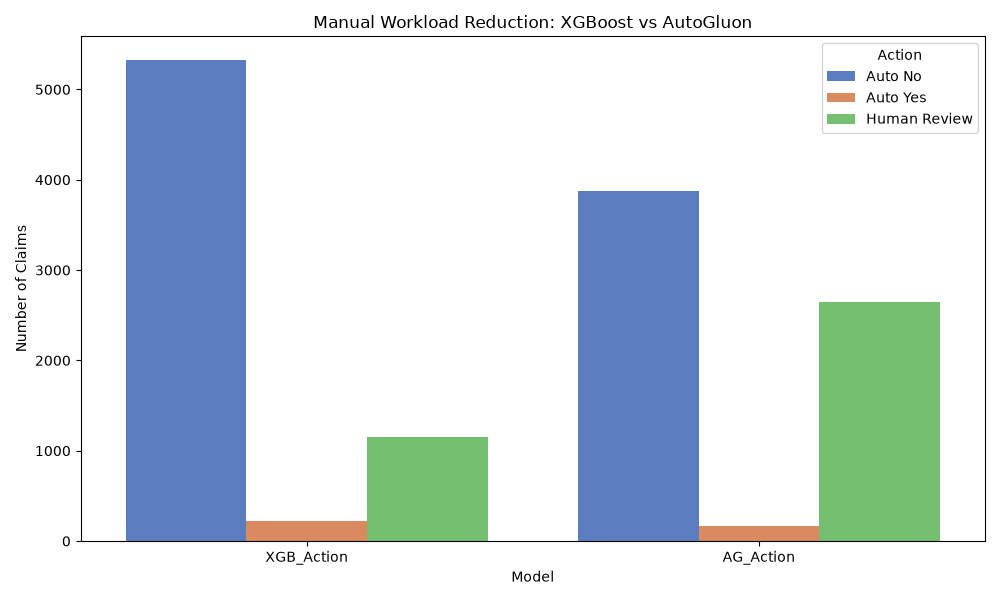
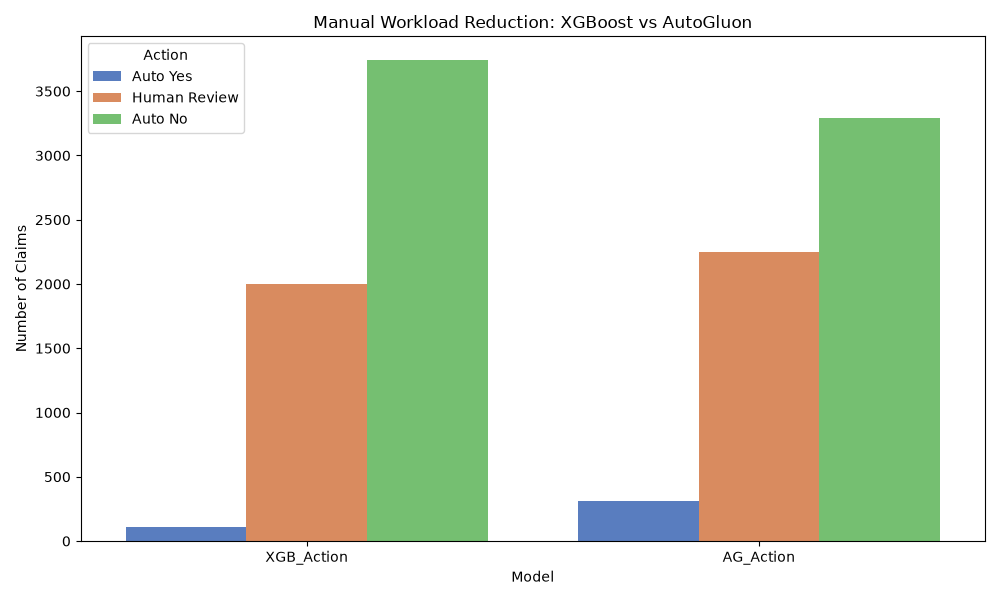
add WESS ID data and improve visualization

diff --git a/trey_pipeline/ml_pipeline/visualize.py b/trey_pipeline/ml_pipeline/visualize.py
@@ -1,58 +1,194 @@
 # /// script
 # requires-python = ">=3.11,<3.12"
-# dependencies = ["pandas", "matplotlib", "seaborn", "scikit-learn"]
+# dependencies = ["pandas", "matplotlib", "seaborn", "scikit-learn", "numpy"]
 # ///
 
+#visualize.py
 from pathlib import Path
 import pandas as pd
 import seaborn as sns
 import matplotlib.pyplot as plt
-from sklearn.metrics import accuracy_score, confusion_matrix
+import numpy as np
+from sklearn.metrics import accuracy_score
 
 PROJECT_ROOT = Path(__file__).resolve().parents[1]
 
-def evaluate_and_visualize(
-    data_path=PROJECT_ROOT / "data" / "output_claims.csv",
+# ==========================================
+# 1. MODEL EVALUATION (XGBOOST VS AUTOGLUON)
+# ==========================================
+def evaluate_models(
+    preds_path=PROJECT_ROOT / "data" / "output_claims.csv",
+    truth_path=PROJECT_ROOT / "data" / "unprocessed_claims_Matt_MCN_MARCH1Rev.csv",
     output_path=PROJECT_ROOT / "data" / "workload_reduction.png",
 ):
-    df = pd.read_csv(data_path)
-    valid_cases = df[df['Actual_Verdict'].isin(['Y', 'N'])].copy()
+    print("\n" + "="*65)
+    print("           MODEL PERFORMANCE & WORKLOAD REDUCTION")
+    print("="*65)
     
-    if valid_cases.empty:
-        print("No historical ground truth ('Y' or 'N') found in the file. Skipping visualization.")
+    try:
+        preds_df = pd.read_csv(preds_path)
+        truth_df = pd.read_csv(truth_path)
+    except FileNotFoundError as e:
+        print(f"File not found: {e}. Skipping model evaluation.")
+        return
+
+    # Merge predictions with ground truth on 'video_id'
+    if 'video_id' not in preds_df.columns or 'video_id' not in truth_df.columns:
+        print("Error: 'video_id' column must be present in both files to merge them.")
         return
         
-    valid_cases['Actual_Binary'] = valid_cases['Actual_Verdict'].map({'Y': 1, 'N': 0})
+    df = pd.merge(preds_df, truth_df, on='video_id', how='inner')
+    
+    # Filter to valid ground truth
+    valid_cases = df[df['verdict'].isin(['Y', 'N'])].copy()
+    
+    if valid_cases.empty:
+        print("No valid historical ground truth ('Y' or 'N') found after merging.")
+        return
+        
+    valid_cases['Actual_Binary'] = valid_cases['verdict'].map({'Y': 1, 'N': 0})
     
     def calc_metrics(action_col):
+        if action_col not in valid_cases.columns:
+            return 0, 0, 0
+            
         auto = valid_cases[valid_cases[action_col] != 'Human Review'].copy()
         if auto.empty: return 0, 0, 0
-        auto['Pred'] = auto[action_col].map({'Auto Yes': 1, 'Auto No': 0})
         
+        auto['Pred'] = auto[action_col].map({'Auto Yes': 1, 'Auto No': 0})
         rate = len(auto) / len(valid_cases) * 100
         acc = accuracy_score(auto['Actual_Binary'], auto['Pred']) * 100
         fns = ((valid_cases['Actual_Binary'] == 1) & (valid_cases[action_col] == 'Auto No')).sum()
         return rate, acc, fns
 
+    # Calculate for both models
     xgb_rate, xgb_acc, xgb_fns = calc_metrics('XGB_Action')
     ag_rate, ag_acc, ag_fns = calc_metrics('AG_Action')
     
-    print("\n" + "="*60)
-    print(" HEAD-TO-HEAD PERFORMANCE REPORT")
-    print("="*60)
+    # Generate Text Report
     print(f"XGBoost   | Automation: {xgb_rate:.2f}% | Accuracy: {xgb_acc:.2f}% | False Negatives: {xgb_fns}")
     print(f"AutoGluon | Automation: {ag_rate:.2f}% | Accuracy: {ag_acc:.2f}% | False Negatives: {ag_fns}")
-    print("="*60)
+    print("="*65)
 
-    # Workload Reduction Chart
-    plt.figure(figsize=(10, 6))
-    actions_df = pd.melt(valid_cases[['XGB_Action', 'AG_Action']], var_name='Model', value_name='Action')
-    sns.countplot(data=actions_df, x='Model', hue='Action', palette='muted')
-    plt.title('Manual Workload Reduction: XGBoost vs AutoGluon')
-    plt.ylabel('Number of Claims')
-    plt.tight_layout()
-    plt.savefig(output_path)
-    print(f"Saved visualization to '{output_path}'")
+    # Generate Workload Reduction Chart
+    if 'XGB_Action' in valid_cases.columns and 'AG_Action' in valid_cases.columns:
+        plt.figure(figsize=(10, 6))
+        actions_df = pd.melt(valid_cases[['XGB_Action', 'AG_Action']], var_name='Model', value_name='Action')
+        
+        sns.countplot(
+            data=actions_df, 
+            x='Model', 
+            hue='Action', 
+            palette='muted', 
+            order=['XGB_Action', 'AG_Action'],
+            hue_order=['Auto Yes', 'Human Review', 'Auto No']
+        )
+        
+        plt.title('Manual Workload Reduction: XGBoost vs AutoGluon')
+        plt.ylabel('Number of Claims')
+        plt.tight_layout()
+        
+        output_path.parent.mkdir(parents=True, exist_ok=True)
+        plt.savefig(output_path)
+        print(f"[#] Saved workload visualization to '{output_path}'")
+    else:
+        print("Missing 'XGB_Action' or 'AG_Action' columns. Cannot generate plot.")
+
+
+# ==========================================
+# 2. LANGUAGE VERIFICATION EVALUATION
+# ==========================================
+def evaluate_language(
+    report_path=PROJECT_ROOT / "data" / "language_evaluation_report.csv",
+    output_path=PROJECT_ROOT / "data" / "language_accuracy_breakdown.png"
+):
+    print("\n" + "="*65)
+    print("           LANGUAGE VERIFICATION PERFORMANCE REPORT")
+    print("="*65)
+    
+    try:
+        df = pd.read_csv(report_path)
+    except FileNotFoundError:
+        print(f"File not found: {report_path}. Skipping language evaluation.")
+        return
+
+    # Identify and filter out bot-flagged rows
+    bot_condition = df['Lang_Reason'].astype(str).str.contains(r'bot|Sign in', case=False, na=False)
+    skipped_count = bot_condition.sum()
+    clean_df = df[~bot_condition].copy()
+    
+    if clean_df.empty:
+        print(f"All rows ({skipped_count}) were skipped due to bot flagging. No data to analyze.")
+        return
+
+    # Treat Lang_Is_Match as a boolean
+    clean_df['Lang_Is_Match'] = clean_df['Lang_Is_Match'].astype(str).str.strip().str.lower() == 'true'
+    overall_accuracy = clean_df['Lang_Is_Match'].mean() * 100
+
+    print(f"Total Rows in File      : {len(df)}")
+    print(f"Skipped (Bot Flagged)   : {skipped_count}")
+    print(f"Successfully Evaluated  : {len(clean_df)}")
+    print(f"Overall System Accuracy : {overall_accuracy:.2f}%")
+    print("=" * 65)
+
+    lang_col = 'Expected Language'
+    
+    if lang_col in clean_df.columns:
+        # Drop rows where Expected Language is completely empty so it doesn't skew the table
+        clean_df = clean_df.dropna(subset=[lang_col])
+        clean_df = clean_df[clean_df[lang_col].astype(str).str.strip() != ""]
+
+        lang_stats = clean_df.groupby(lang_col).agg(
+            Total_Cases=('Lang_Is_Match', 'count'),
+            Correct_Matches=('Lang_Is_Match', 'sum')
+        ).reset_index()
+        
+        lang_stats['Accuracy'] = (lang_stats['Correct_Matches'] / lang_stats['Total_Cases']) * 100
+        lang_stats = lang_stats.sort_values(by='Total_Cases', ascending=False)
+
+        print(f"{'Language/ID':<25} | {'Evaluated':<12} | {'Accuracy (%)':<12}")
+        print("-" * 65)
+        for _, row in lang_stats.iterrows():
+            print(f"{str(row[lang_col]):<25} | {int(row['Total_Cases']):<12} | {row['Accuracy']:.2f}%")
+        print("=" * 65)
+        
+        # Generate the Visualization
+        if not lang_stats.empty:
+            plt.figure(figsize=(12, max(6, len(lang_stats) * 0.4)))
+            sns.set_theme(style="whitegrid")
+            
+            ax = sns.barplot(
+                data=lang_stats,
+                x='Accuracy',
+                y=lang_col,
+                palette='viridis',
+                hue=lang_col,
+                legend=False
+            )
+            
+            plt.axvline(x=overall_accuracy, color='red', linestyle='--', alpha=0.7, label=f'Overall Accuracy ({overall_accuracy:.1f}%)')
+            
+            for i, p in enumerate(ax.patches):
+                if i < len(lang_stats):
+                    cases = int(lang_stats.iloc[i]['Total_Cases'])
+                    ax.annotate(f" n={cases}", (p.get_width(), p.get_y() + p.get_height()/2), 
+                                va='center', ha='left', fontsize=9, color='black')
+
+            plt.title(f'Language Verification Accuracy Breakdown\n(Excluding {skipped_count} Bot-Flagged Claims)', fontsize=14, pad=15)
+            plt.xlabel('Accuracy Percentage (%)')
+            plt.ylabel('Target Language')
+            plt.xlim(0, 105)
+            plt.legend(loc='lower left')
+            plt.tight_layout()
+            
+            output_path.parent.mkdir(parents=True, exist_ok=True)
+            plt.savefig(output_path, dpi=300)
+            print(f"[#] Saved language visualization to '{output_path}'\n")
+        else:
+            print("[!] No valid language data available to plot.")
+    else:
+        print(f"[!] Target column '{lang_col}' not found.")
 
 if __name__ == "__main__":
-    evaluate_and_visualize()
+    evaluate_models()
+    evaluate_language()

diff --git a/trey_pipeline/language_checker/google_and_whisper.py b/trey_pipeline/language_checker/google_and_whisper.py
@@ -28,11 +28,11 @@ except ImportError:
 PROJECT_ROOT = Path(__file__).resolve().parents[1]
 
 # Columns
-AUTO_YES_COLUMN = "AG_Action"
-YOUTUBE_COLUMN = "(LINKED)    Video ID"
+AUTO_YES_COLUMN = "AG_Action" 
+YOUTUBE_COLUMN = "video_id" 
 EXPECTED_LANGUAGE_COLUMN = "Expected Language"
-WESS_LANGUAGE_ID_COLUMN = "Actual WESS Language ID"
-VIDEO_TITLE_COLUMN = "Video Title"
+WESS_LANGUAGE_ID_COLUMN = "language_id" 
+VIDEO_TITLE_COLUMN = "video_title"
 
 # Limits & Buffers
 MAX_DOWNLOAD_BYTES = 90 * 1024 * 1024  
@@ -82,28 +82,29 @@ EQUIVALENT_LANGUAGES = {
     "Persian": "Farsi, Western", "Mbandja": "Mandja", "Mandja": "Mbandja",
 }
 
-WHISPER_CODE_TO_LANGUAGE = {
-    "en": "English", "zh": "Chinese", "de": "German", "es": "Spanish", "ru": "Russian",
-    "ko": "Korean", "fr": "French", "ja": "Japanese", "pt": "Portuguese", "tr": "Turkish",
-    "pl": "Polish", "ca": "Catalan", "nl": "Dutch", "ar": "Arabic", "sv": "Swedish",
-    "it": "Italian", "id": "Indonesian", "hi": "Hindi", "fi": "Finnish", "vi": "Vietnamese",
-    "he": "Hebrew", "uk": "Ukrainian", "el": "Greek", "ms": "Malay", "cs": "Czech",
-    "ro": "Romanian", "da": "Danish", "hu": "Hungarian", "ta": "Tamil", "no": "Norwegian",
-    "th": "Thai", "ur": "Urdu", "hr": "Croatian", "bg": "Bulgarian", "lt": "Lithuanian",
-    "la": "Latin", "mi": "Maori", "ml": "Malayalam", "cy": "Welsh", "sk": "Slovak",
-    "te": "Telugu", "fa": "Persian", "lv": "Latvian", "bn": "Bengali", "sr": "Serbian",
-    "az": "Azerbaijani", "sl": "Slovenian", "kn": "Kannada", "et": "Estonian", "mk": "Macedonian",
-    "br": "Breton", "eu": "Basque", "is": "Icelandic", "hy": "Armenian", "ne": "Nepali",
-    "mn": "Mongolian", "bs": "Bosnian", "kk": "Kazakh", "sq": "Albanian", "sw": "Swahili",
-    "gl": "Galician", "mr": "Marathi", "pa": "Punjabi", "si": "Sinhala", "km": "Khmer",
-    "sn": "Shona", "yo": "Yoruba", "so": "Somali", "af": "Afrikaans", "oc": "Occitan",
-    "ka": "Georgian", "be": "Belarusian", "tg": "Tajik", "sd": "Sindhi", "gu": "Gujarati",
-    "am": "Amharic", "yi": "Yiddish", "lo": "Lao", "uz": "Uzbek", "fo": "Faroese",
-    "ht": "Haitian Creole", "ps": "Pashto", "tk": "Turkmen", "nn": "Nynorsk", "mt": "Maltese",
-    "sa": "Sanskrit", "lb": "Luxembourgish", "my": "Burmese", "bo": "Tibetan", "tl": "Tagalog",
-    "mg": "Malagasy", "as": "Assamese", "tt": "Tatar", "haw": "Hawaiian", "ln": "Lingala",
-    "ha": "Hausa", "ba": "Bashkir", "jw": "Javanese", "su": "Sundanese",
-}
+def load_wess_mapping(csv_path=PROJECT_ROOT / "data" / "WESS ID.csv"):
+    try:
+        # Load the CSV
+        wess_df = pd.read_csv(csv_path)
+        # Strip headers of hidden spaces
+        wess_df.columns = wess_df.columns.astype(str).str.strip()
+        
+        name_col = [c for c in wess_df.columns if "Language Name" in c][0]
+        id_col = [c for c in wess_df.columns if "WESS Language ID" in c][0]
+        
+        wess_dict = {}
+        for _, row in wess_df.iterrows():
+            raw_id = str(row[id_col]).split('.')[0].strip()
+            raw_name = str(row[name_col]).strip()
+            if raw_id and raw_id.lower() != 'nan':
+                wess_dict[raw_id] = raw_name
+        return wess_dict
+    except Exception as e:
+        print(f"[!] Warning: {csv_path} not found or error reading. WESS ID translation will fail. {e}")
+        return {}
+
+# Build the dictionary when the script starts
+WESS_ID_TO_LANGUAGE = load_wess_mapping()
 
 def canonical_language(value):
     value = "" if value is None else str(value).strip()
@@ -116,13 +117,19 @@ def normalize_title(text):
 
 def build_language_lookup():
     lookup = {}
+    
     def add_alias(alias, canonical, priority=False):
         alias = normalize_title(alias)
-        if not alias or (not priority and len(alias) < 5): return
+        # If priority=False, we require the language name to be at least 4 letters long 
+        # to avoid accidentally triggering on random short words in the title.
+        if not alias or (not priority and len(alias) < 4): return
         lookup[alias] = canonical_language(canonical)
         
+    # 1. Add our hardcoded high-priority list
     for lang in HIGH_PRIORITY_LANGUAGES:
         add_alias(lang, lang, priority=True)
+        
+    # 2. Add manual alias rules (MSA Arabic, Castilian, etc.)
     manual_aliases = {
         "Latin American Spanish": "Spanish", "Castilian Spanish": "Spanish", "Brazilian Portuguese": "Portuguese",
         "Modern Standard Arabic": "Arabic", "MSA Arabic": "Arabic", "Bahasa Indonesia": "Indonesian",
@@ -132,8 +139,16 @@ def build_language_lookup():
     for alias, canonical in manual_aliases.items():
         add_alias(alias, canonical, priority=True)
         
+    # 3. Dynamically absorb every language name from the WESS ID.csv
+    for wess_lang_name in WESS_ID_TO_LANGUAGE.values():
+        # Some WESS names look like "Yao (Iu Mien)". We add it as-is, and our normalize_title 
+        # function will automatically strip out the punctuation so it matches clean text.
+        add_alias(wess_lang_name, wess_lang_name, priority=False)
+        
+    # Sort by length descending, so we check for long compound names before short names
     return sorted(lookup.items(), key=lambda x: len(x[0]), reverse=True)
 
+# Build the lookup immediately after defining it
 LANGUAGE_LOOKUP = build_language_lookup()
 
 def detect_language_from_title(title):
@@ -387,7 +402,7 @@ def run_isolated_language_test(
     output_path=PROJECT_ROOT / "data" / "language_evaluation_report.csv",
 ):
     print("=====================================================")
-    print("     STARTING STANDALONE LANGUAGE EVALUATION ENGINE   ")
+    print("     STARTING STANDALONE LANGUAGE EVALUATION ENGINE  ")
     print("=====================================================")
     
     load_env_file()
@@ -417,9 +432,20 @@ def run_isolated_language_test(
         for row_number, row in eval_df.iterrows():
             url = normalize_youtube_url(row[YOUTUBE_COLUMN])
             title = str(row.get(VIDEO_TITLE_COLUMN, ""))
-            expected_lang = str(row.get(EXPECTED_LANGUAGE_COLUMN, ""))
+            
+            # 1. Check for expected language and intercept Pandas "nan" explicitly
+            expected_lang = str(row.get(EXPECTED_LANGUAGE_COLUMN, "")).strip()
+            if expected_lang.lower() == 'nan':
+                expected_lang = ""
+
+            # 2. If Expected Language is missing, translate the WESS ID using our dynamic dictionary
             if not expected_lang and WESS_LANGUAGE_ID_COLUMN in row:
-                expected_lang = str(row[WESS_LANGUAGE_ID_COLUMN])
+                raw_id = str(row[WESS_LANGUAGE_ID_COLUMN]).split('.')[0].strip()
+                if raw_id.lower() != 'nan':
+                    expected_lang = WESS_ID_TO_LANGUAGE.get(raw_id, raw_id)
+            
+            # 3. Write it back to the dataframe IMMEDIATELY so visualize.py can see it
+            eval_df.at[row_number, EXPECTED_LANGUAGE_COLUMN] = expected_lang
 
             print(f"\n=====================================================")
             print(f"Processing candidate validation link: {url}")
